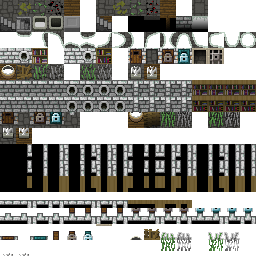
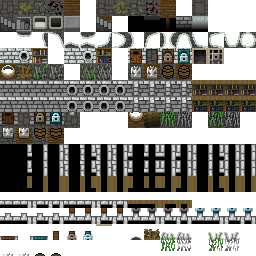
v3.1.0: added internal code for region decos and a very WIP sewer visual

Changed region(s): [[0.625, 0.25, 0.75, 0.3125], [0.125, 0.5, 0.25, 0.5625], [0.125, 0.9688, 0.25, 1.0]]

diff --git a/core/src/main/java/com/shatteredpixel/shatteredpixeldungeon/tiles/DungeonTileSheet.java b/core/src/main/java/com/shatteredpixel/shatteredpixeldungeon/tiles/DungeonTileSheet.java
@@ -92,6 +92,7 @@ public class DungeonTileSheet {
 		chasmStitcheable.put( Terrain.EMPTY_WELL,   CHASM_FLOOR );
 		chasmStitcheable.put( Terrain.WELL,         CHASM_FLOOR );
 		chasmStitcheable.put( Terrain.STATUE,       CHASM_FLOOR );
+		chasmStitcheable.put( Terrain.REGION_DECO,  CHASM_FLOOR );
 		chasmStitcheable.put( Terrain.SECRET_TRAP,  CHASM_FLOOR );
 		chasmStitcheable.put( Terrain.INACTIVE_TRAP,CHASM_FLOOR );
 		chasmStitcheable.put( Terrain.TRAP,         CHASM_FLOOR );
@@ -105,6 +106,7 @@ public class DungeonTileSheet {
 		//special floor
 		chasmStitcheable.put( Terrain.EMPTY_SP,     CHASM_FLOOR_SP );
 		chasmStitcheable.put( Terrain.STATUE_SP,    CHASM_FLOOR_SP );
+		chasmStitcheable.put( Terrain.REGION_DECO_SP,CHASM_FLOOR_SP );
 
 		//wall
 		chasmStitcheable.put( Terrain.WALL,         CHASM_WALL );
@@ -136,7 +138,7 @@ public class DungeonTileSheet {
 			Terrain.ENTRANCE, Terrain.EXIT, Terrain.EMBERS,
 			Terrain.BARRICADE, Terrain.HIGH_GRASS, Terrain.FURROWED_GRASS, Terrain.SECRET_TRAP,
 			Terrain.TRAP, Terrain.INACTIVE_TRAP, Terrain.EMPTY_DECO,
-			Terrain.CUSTOM_DECO, Terrain.WELL, Terrain.STATUE, Terrain.ALCHEMY,
+			Terrain.CUSTOM_DECO, Terrain.WELL, Terrain.STATUE, Terrain.REGION_DECO, Terrain.ALCHEMY,
 			Terrain.CUSTOM_DECO_EMPTY, Terrain.MINE_CRYSTAL, Terrain.MINE_BOULDER,
 			Terrain.DOOR, Terrain.OPEN_DOOR, Terrain.LOCKED_DOOR, Terrain.CRYSTAL_DOOR
 	));
@@ -187,6 +189,8 @@ public class DungeonTileSheet {
 
 	public static final int FLAT_STATUE         = FLAT_OTHER+8;
 	public static final int FLAT_STATUE_SP      = FLAT_OTHER+9;
+	public static final int FLAT_REGION_DECO    = FLAT_OTHER+10;
+	public static final int FLAT_REGION_DECO_SP = FLAT_OTHER+11;
 
 	public static final int FLAT_MINE_CRYSTAL         = FLAT_OTHER+12;
 	public static final int FLAT_MINE_CRYSTAL_ALT     = FLAT_OTHER+13;
@@ -284,6 +288,8 @@ public class DungeonTileSheet {
 
 	public static final int RAISED_STATUE           = RAISED_OTHER+8;
 	public static final int RAISED_STATUE_SP        = RAISED_OTHER+9;
+	public static final int RAISED_REGION_DECO      = RAISED_OTHER+10;
+	public static final int RAISED_REGION_DECO_SP   = RAISED_OTHER+11;
 
 	public static final int RAISED_MINE_CRYSTAL     = RAISED_OTHER+12;
 	public static final int RAISED_MINE_CRYSTAL_ALT = RAISED_OTHER+13;
@@ -367,6 +373,8 @@ public class DungeonTileSheet {
 
 	public static final int STATUE_OVERHANG             = OTHER_OVERHANG+8;
 	public static final int STATUE_SP_OVERHANG          = OTHER_OVERHANG+9;
+	public static final int REGION_DECO_OVERHANG        = OTHER_OVERHANG+10;
+	public static final int REGION_DECO_SP_OVERHANG     = OTHER_OVERHANG+11;
 
 	public static final int MINE_CRYSTAL_OVERHANG       = OTHER_OVERHANG+12;
 	public static final int MINE_CRYSTAL_OVERHANG_ALT   = OTHER_OVERHANG+13;
@@ -428,6 +436,8 @@ public class DungeonTileSheet {
 
 		directFlatVisuals.put(Terrain.STATUE,           FLAT_STATUE);
 		directFlatVisuals.put(Terrain.STATUE_SP,        FLAT_STATUE_SP);
+		directFlatVisuals.put(Terrain.REGION_DECO,      FLAT_REGION_DECO);
+		directFlatVisuals.put(Terrain.REGION_DECO_SP,   FLAT_REGION_DECO_SP);
 
 		directFlatVisuals.put(Terrain.MINE_CRYSTAL,     FLAT_MINE_CRYSTAL);
 		directFlatVisuals.put(Terrain.MINE_BOULDER,     FLAT_MINE_BOULDER);

diff --git a/core/src/main/java/com/shatteredpixel/shatteredpixeldungeon/tiles/DungeonWallsTilemap.java b/core/src/main/java/com/shatteredpixel/shatteredpixeldungeon/tiles/DungeonWallsTilemap.java
@@ -92,6 +92,10 @@ public class DungeonWallsTilemap extends DungeonTilemap {
 			return DungeonTileSheet.STATUE_OVERHANG;
 		} else if (pos + mapWidth < size && map[pos+mapWidth] == Terrain.STATUE_SP){
 			return DungeonTileSheet.STATUE_SP_OVERHANG;
+		} else if (pos + mapWidth < size && map[pos+mapWidth] == Terrain.REGION_DECO){
+			return DungeonTileSheet.REGION_DECO_OVERHANG;
+		} else if (pos + mapWidth < size && map[pos+mapWidth] == Terrain.REGION_DECO_SP){
+			return DungeonTileSheet.REGION_DECO_SP_OVERHANG;
 		} else if (pos + mapWidth < size && map[pos+mapWidth] == Terrain.MINE_CRYSTAL){
 			return DungeonTileSheet.getVisualWithAlts(DungeonTileSheet.MINE_CRYSTAL_OVERHANG, pos + mapWidth);
 		} else if (pos + mapWidth < size && map[pos+mapWidth] == Terrain.MINE_BOULDER){

diff --git a/core/src/main/java/com/shatteredpixel/shatteredpixeldungeon/levels/Terrain.java b/core/src/main/java/com/shatteredpixel/shatteredpixeldungeon/levels/Terrain.java
@@ -61,7 +61,8 @@ public class Terrain {
 	public static final int STATUE			= 25;
 	public static final int STATUE_SP		= 26;
 	//These decorations are environment-specific
-	//33 and 34 are reserved for future statue-like decorations
+	public static final int REGION_DECO		= 33;
+	public static final int REGION_DECO_SP	= 34;
 	public static final int MINE_CRYSTAL    = 35;
 	public static final int MINE_BOULDER    = 36;
 
@@ -116,6 +117,8 @@ public class Terrain {
 		flags[STATUE] = SOLID;
 		flags[STATUE_SP] = flags[STATUE];
 
+		flags[REGION_DECO] = flags[STATUE];
+		flags[REGION_DECO_SP] = flags[STATUE_SP];
 		flags[MINE_CRYSTAL] = SOLID;
 		flags[MINE_BOULDER] = SOLID;
 

diff --git a/core/src/main/java/com/shatteredpixel/shatteredpixeldungeon/tiles/DungeonTerrainTilemap.java b/core/src/main/java/com/shatteredpixel/shatteredpixeldungeon/tiles/DungeonTerrainTilemap.java
@@ -70,6 +70,10 @@ public class DungeonTerrainTilemap extends DungeonTilemap {
 				return DungeonTileSheet.RAISED_STATUE;
 			} else if (tile == Terrain.STATUE_SP) {
 				return DungeonTileSheet.RAISED_STATUE_SP;
+			} else if (tile == Terrain.REGION_DECO) {
+				return DungeonTileSheet.RAISED_REGION_DECO;
+			} else if (tile == Terrain.REGION_DECO_SP) {
+				return DungeonTileSheet.RAISED_REGION_DECO_SP;
 			} else if (tile == Terrain.MINE_CRYSTAL) {
 				return DungeonTileSheet.getVisualWithAlts(
 						DungeonTileSheet.RAISED_MINE_CRYSTAL,
